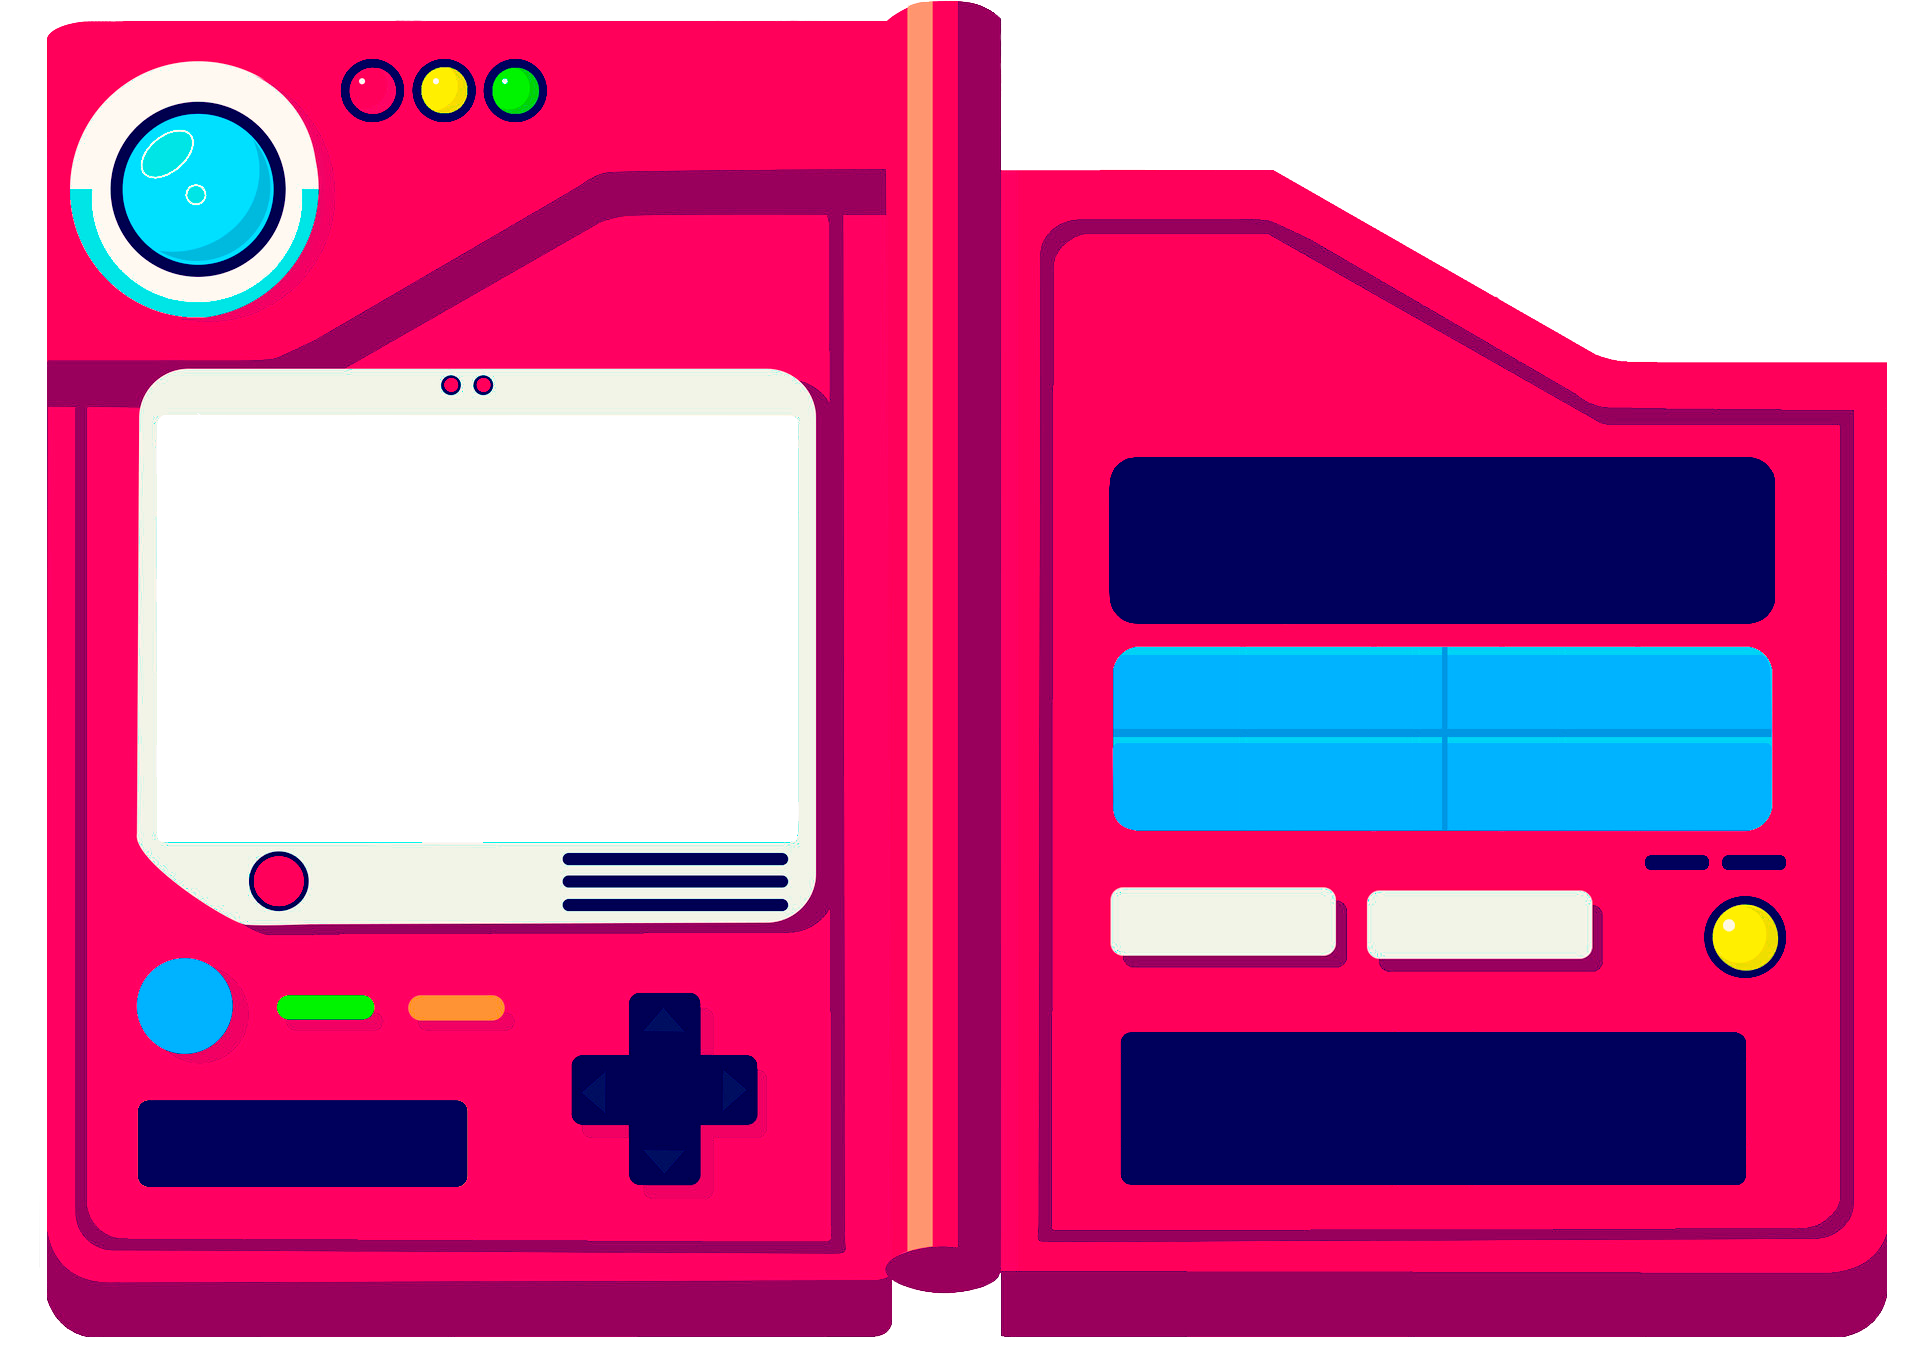
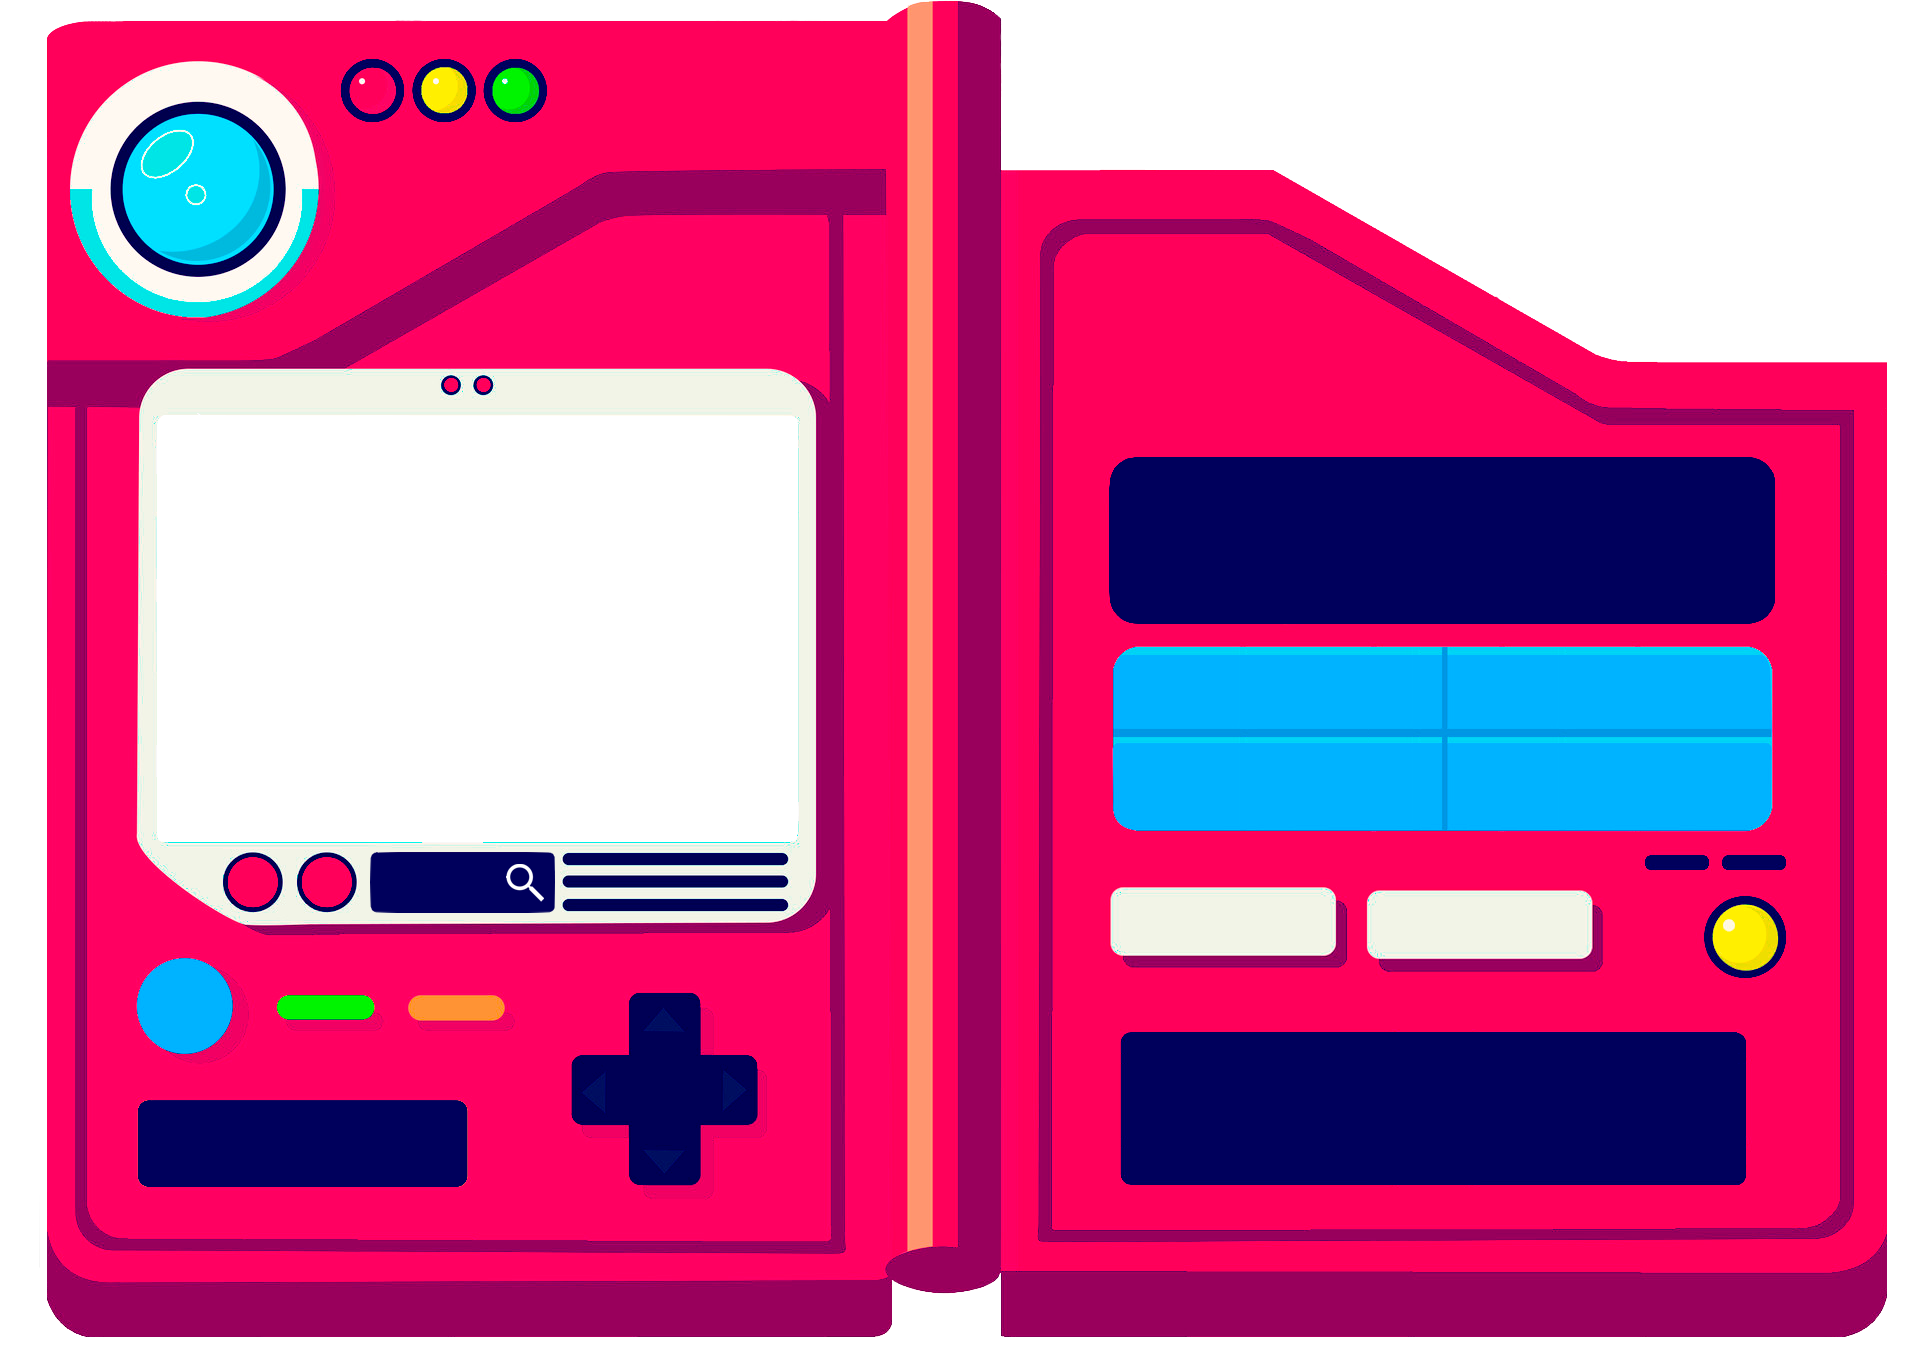
Melhorias de interface, Bug corrigido.
Interface de pesquisa de pokemons melhorada. Bug onde a versão shiny do lapras não era mostrada de forma adequada foi resolvida.

Changed region(s): [[0.0938, 0.619, 0.3125, 0.6809]]

diff --git a/src/main/resources/cssStyle/labels.css b/src/main/resources/cssStyle/labels.css
@@ -79,8 +79,8 @@
 }
 
 .text-field {
-
-    -fx-text-fill: Black;
+    -fx-background-color: transparent;
+    -fx-text-fill: White;
     -fx-font-family: 'Bebas Neue', cursive;
     -fx-font-size: 15;
 }

diff --git a/target/classes/cssStyle/labels.css b/target/classes/cssStyle/labels.css
@@ -79,8 +79,8 @@
 }
 
 .text-field {
-
-    -fx-text-fill: Black;
+    -fx-background-color: transparent;
+    -fx-text-fill: White;
     -fx-font-family: 'Bebas Neue', cursive;
     -fx-font-size: 15;
 }

diff --git a/src/main/java/org/pokedex/pokedexScreenController.java b/src/main/java/org/pokedex/pokedexScreenController.java
@@ -181,17 +181,19 @@ public class pokedexScreenController {
 
     public void setSearch(ActionEvent event) {
         String numero = searchText.getText();
-        int n = Integer.parseInt(numero);
-        if (n-1 > 0 && n-1 < pokemons.size()) {
-            index = n - 1;
-            i = pokemons.get(index);
-            updateLabels();
-            imageUpdate();
-            cleanMega();
-            megaIndex = 0;
-            searchText.setText("");
-        }else {
-            searchText.setText("");
+        if (!numero.equals("")) {
+            int n = Integer.parseInt(numero);
+            if (n - 1 > 0 && n - 1 < pokemons.size()) {
+                index = n - 1;
+                i = pokemons.get(index);
+                updateLabels();
+                imageUpdate();
+                cleanMega();
+                megaIndex = 0;
+                searchText.setText(numero);
+            } else {
+                searchText.setText("0");
+            }
         }
     }
 
